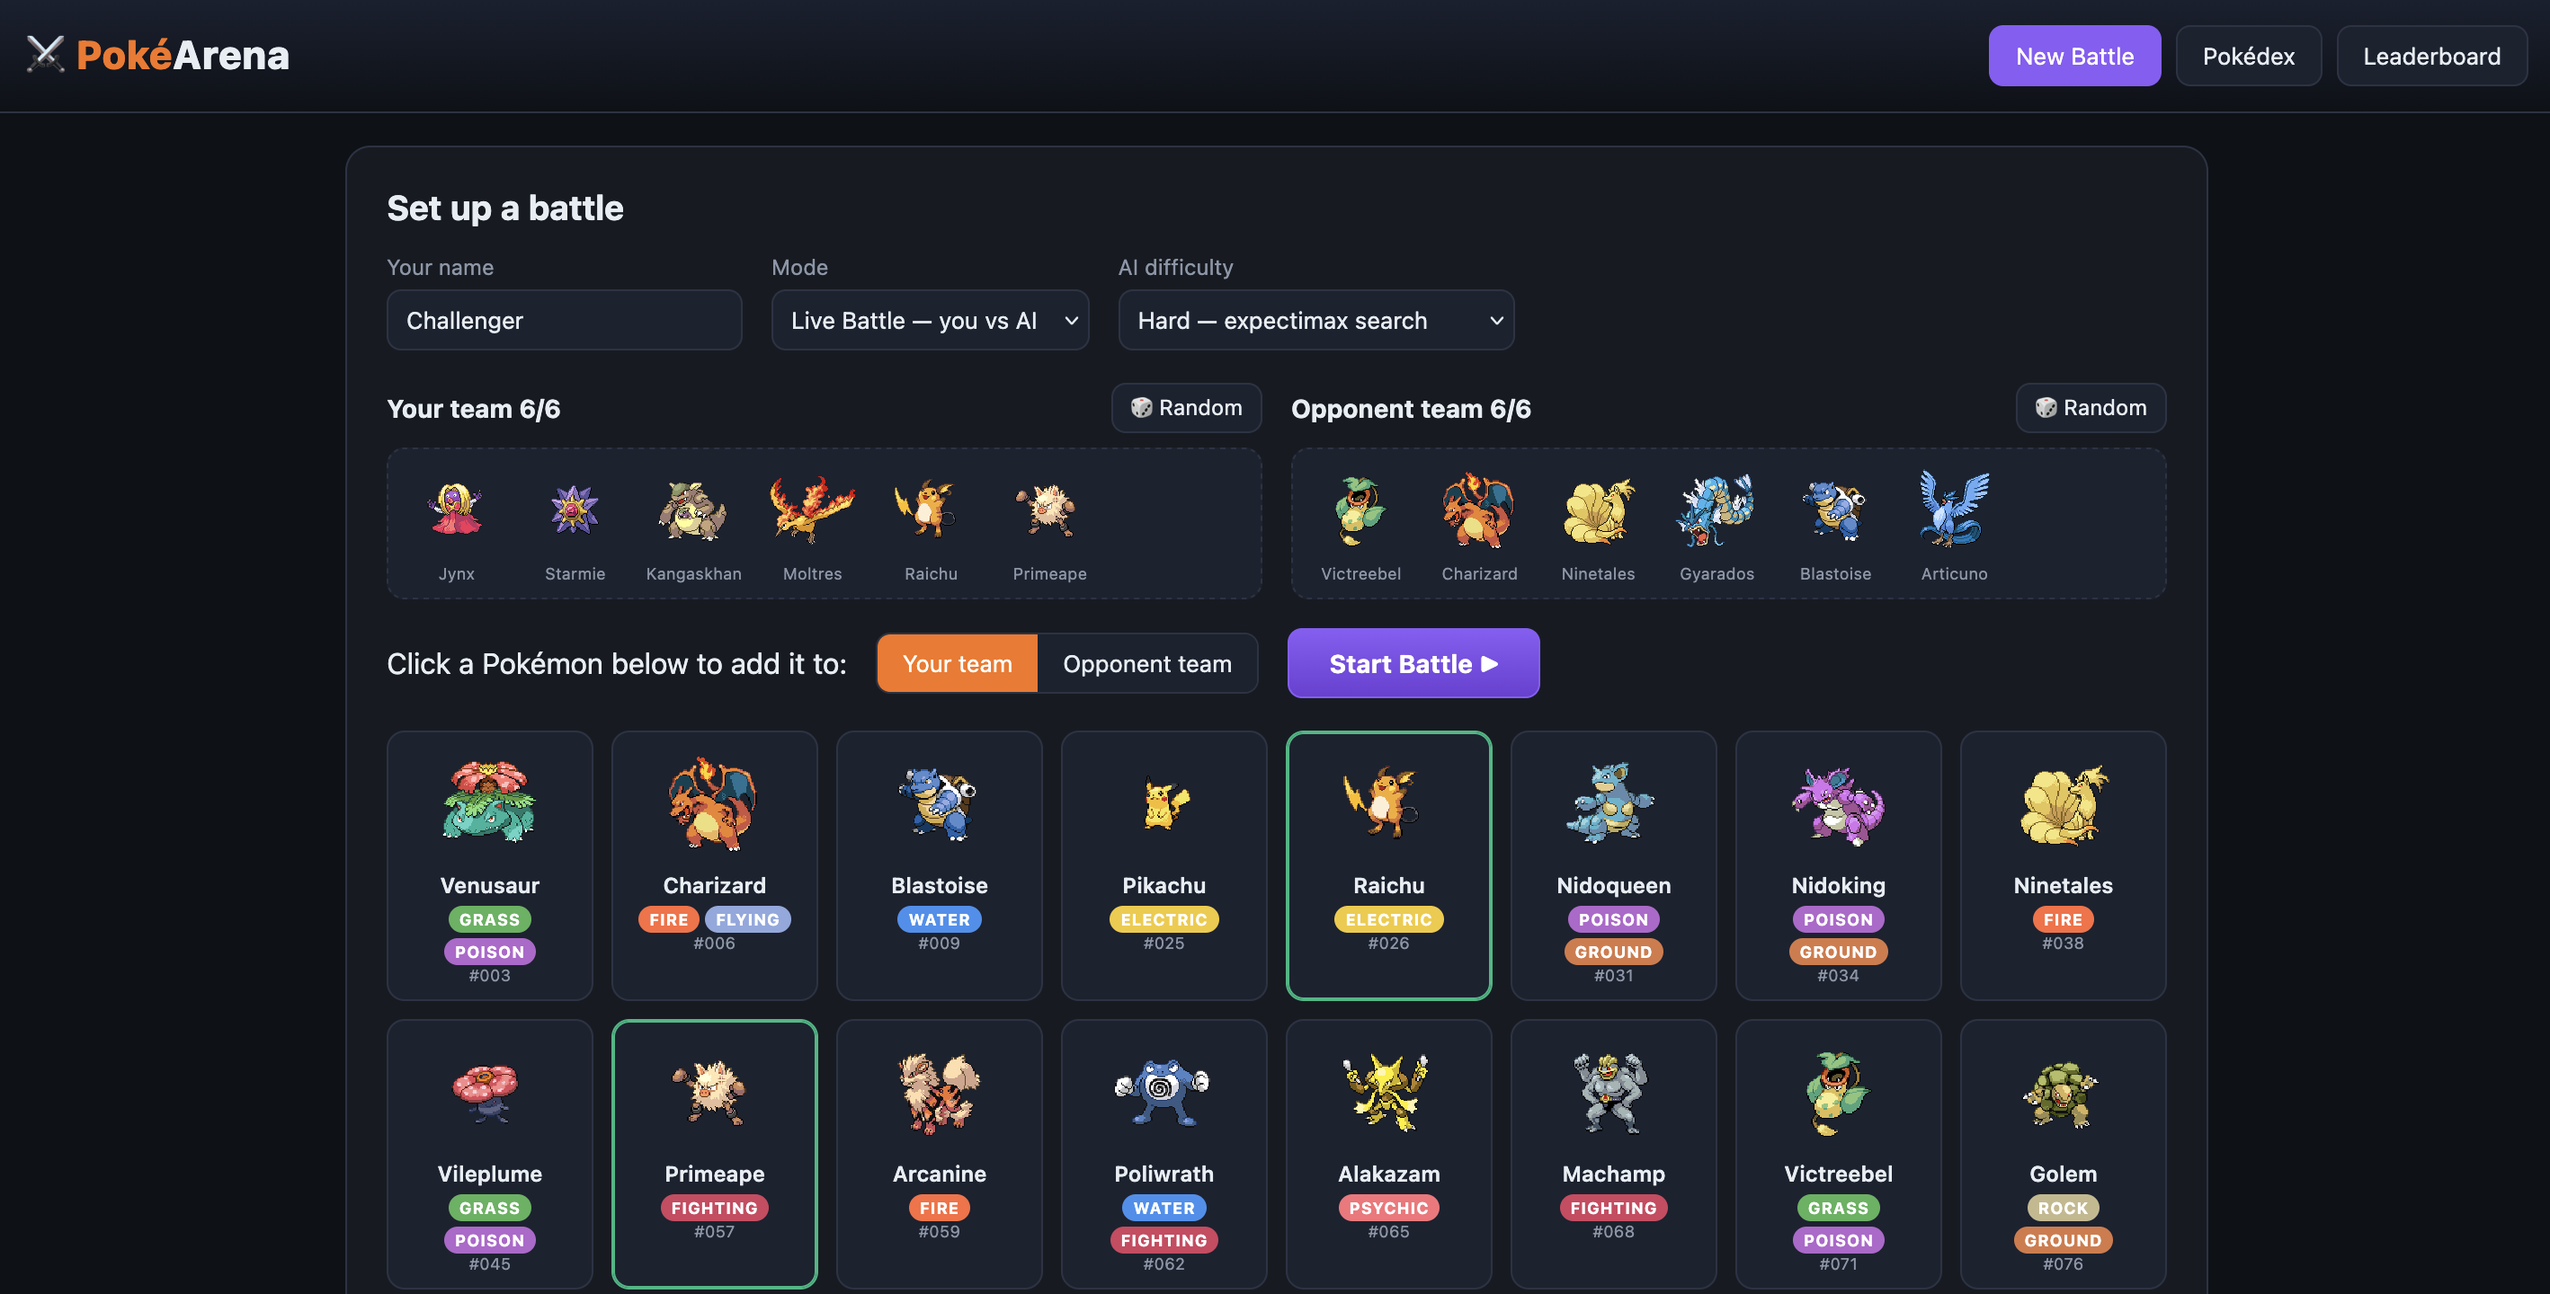
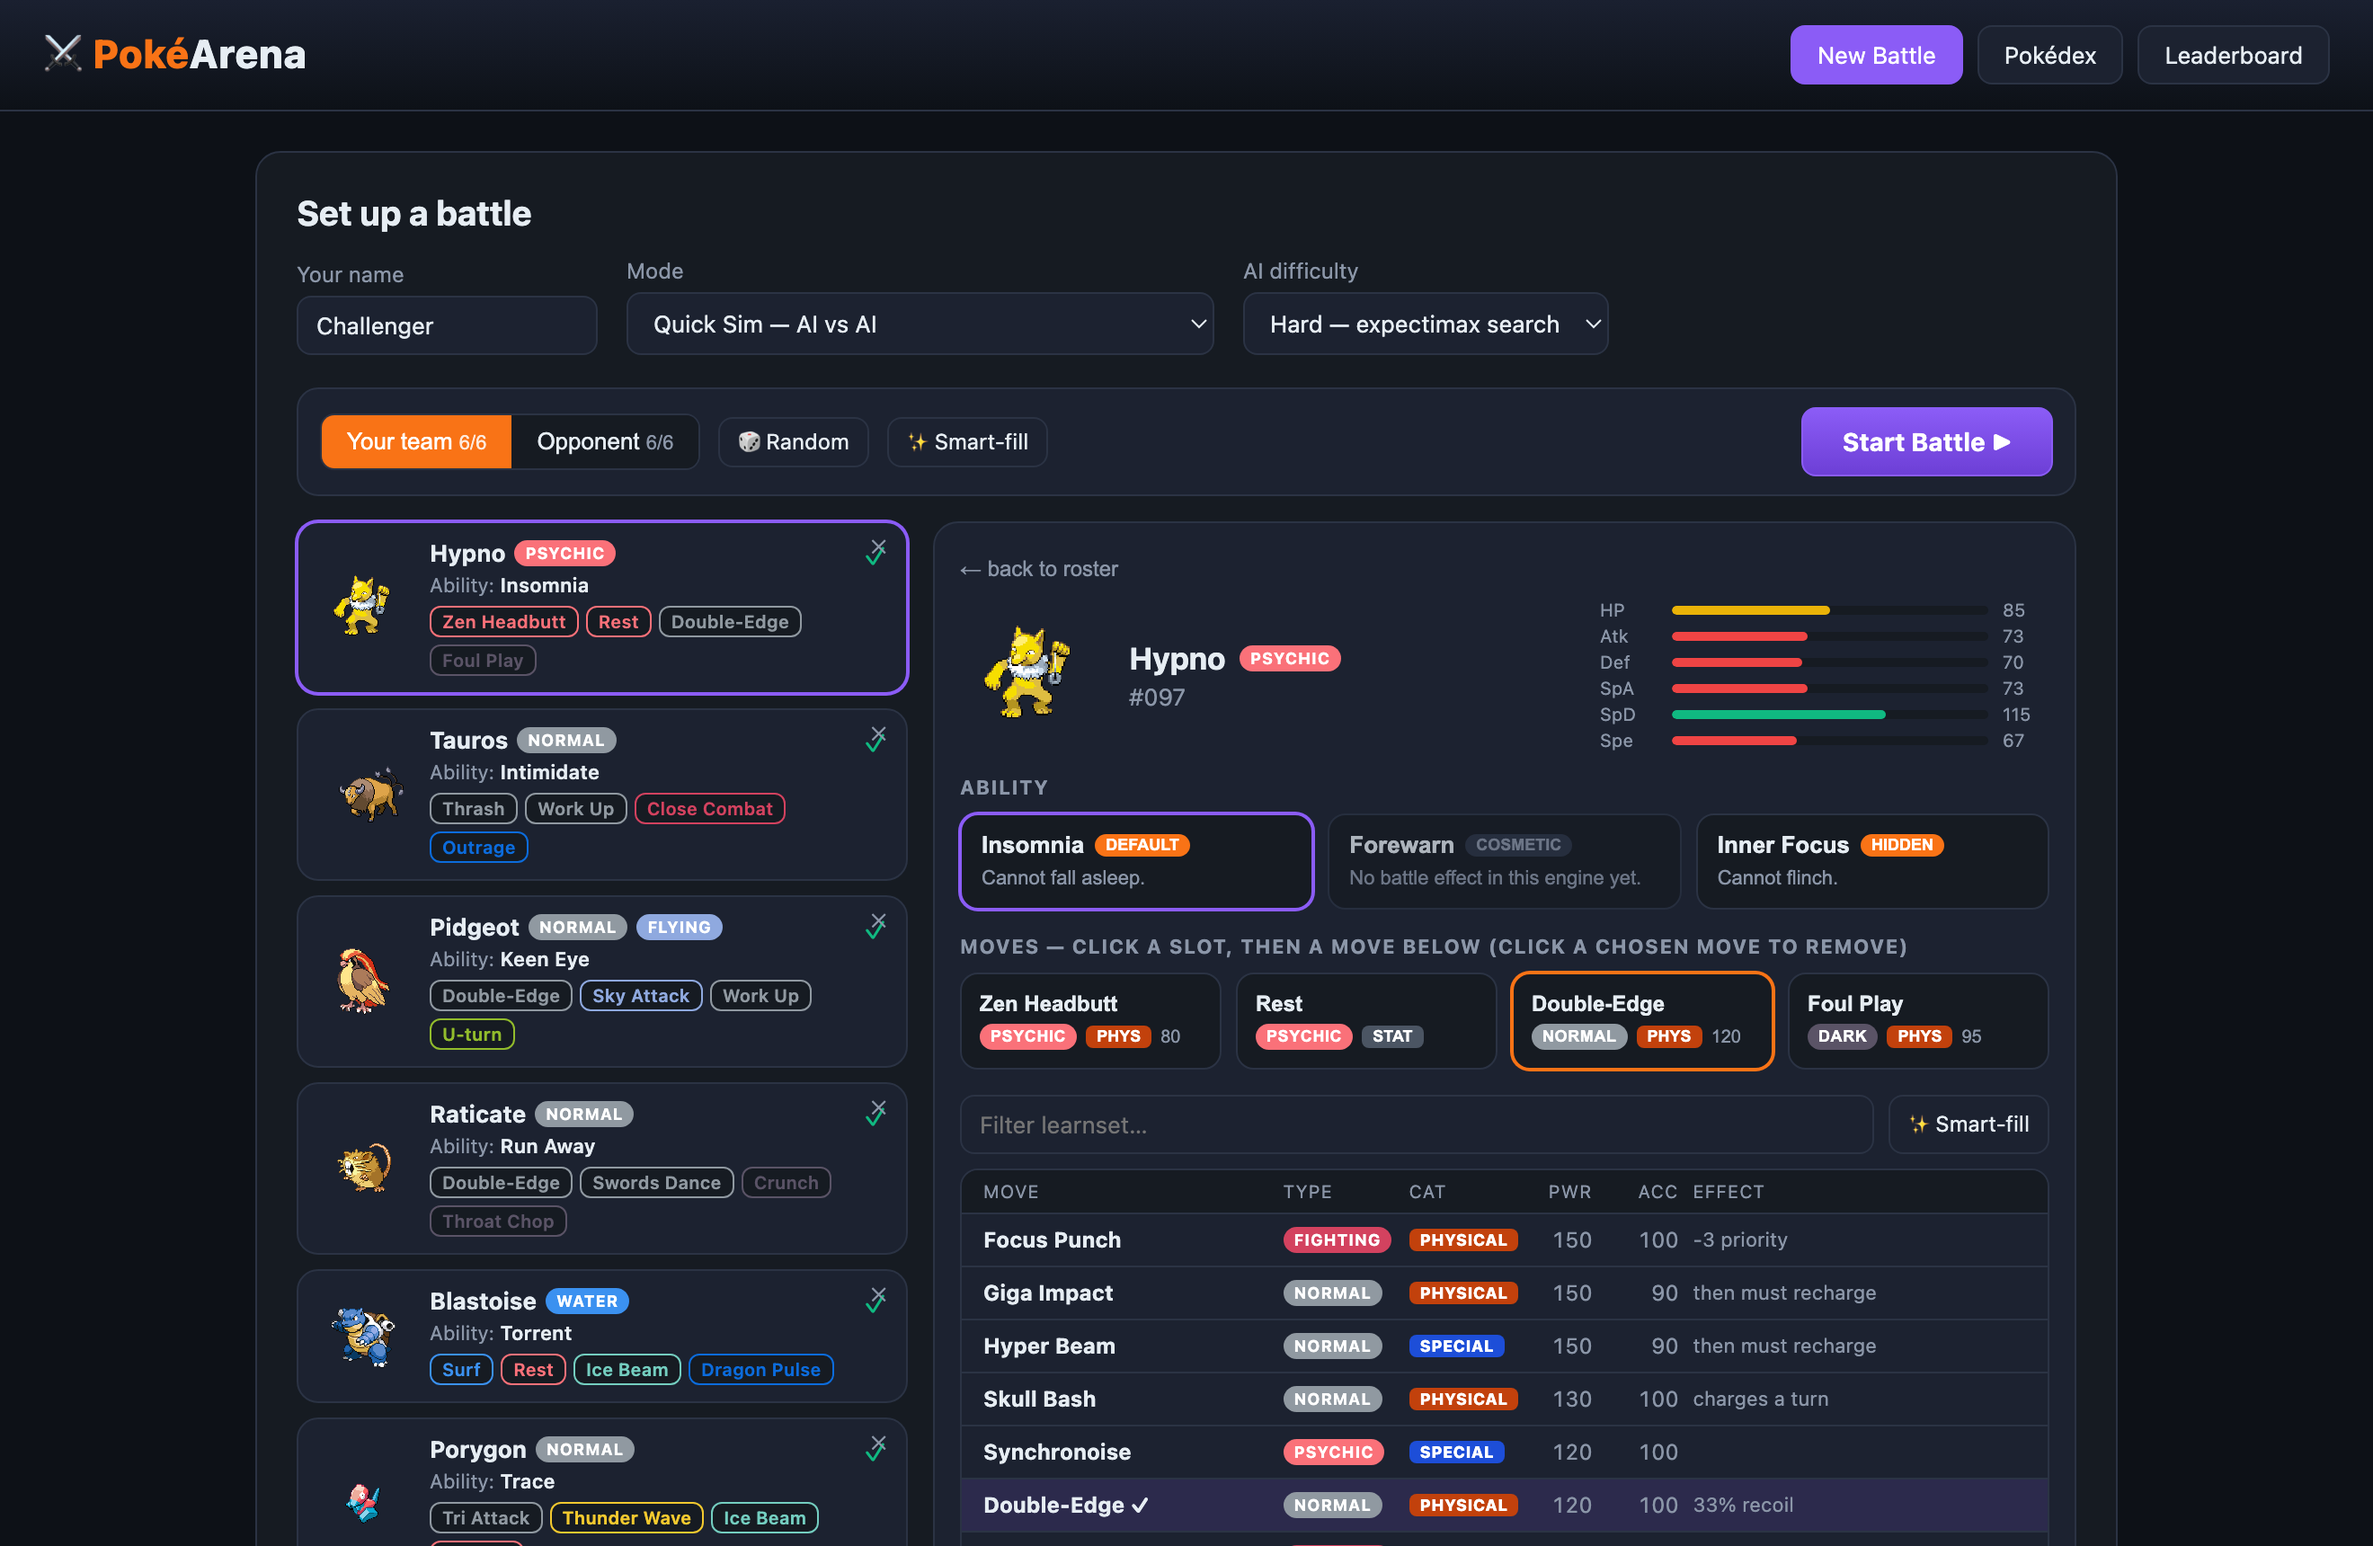
docs: refresh README team-builder screenshot for the new UI
Replace the old dropdown-stack setup screen with the redesigned builder
(roster→editor flow, stat bars, ability cards with cosmetic tagging, the
sortable move table) and update the caption to match.

diff --git a/README.md b/README.md
@@ -27,9 +27,9 @@ WebSocket — each sees only fog-of-war, calls `view` → picks a move → `act`
 the engine resolves the turn. Swap either side for a human, a script, or a
 different model. [How to connect your own ↓](#connect-your-agent)
 
-| Draft both teams | Battle — HP, type effectiveness, full turn log |
+| Build a team — stats, abilities, and a real move table | Battle — HP, type effectiveness, full turn log |
 |---|---|
-| ![Setup screen](docs/main-screen.png) | ![Battle screen](docs/battle-screen.png) |
+| ![Team builder](docs/main-screen.png) | ![Battle screen](docs/battle-screen.png) |
 
 ---
 
